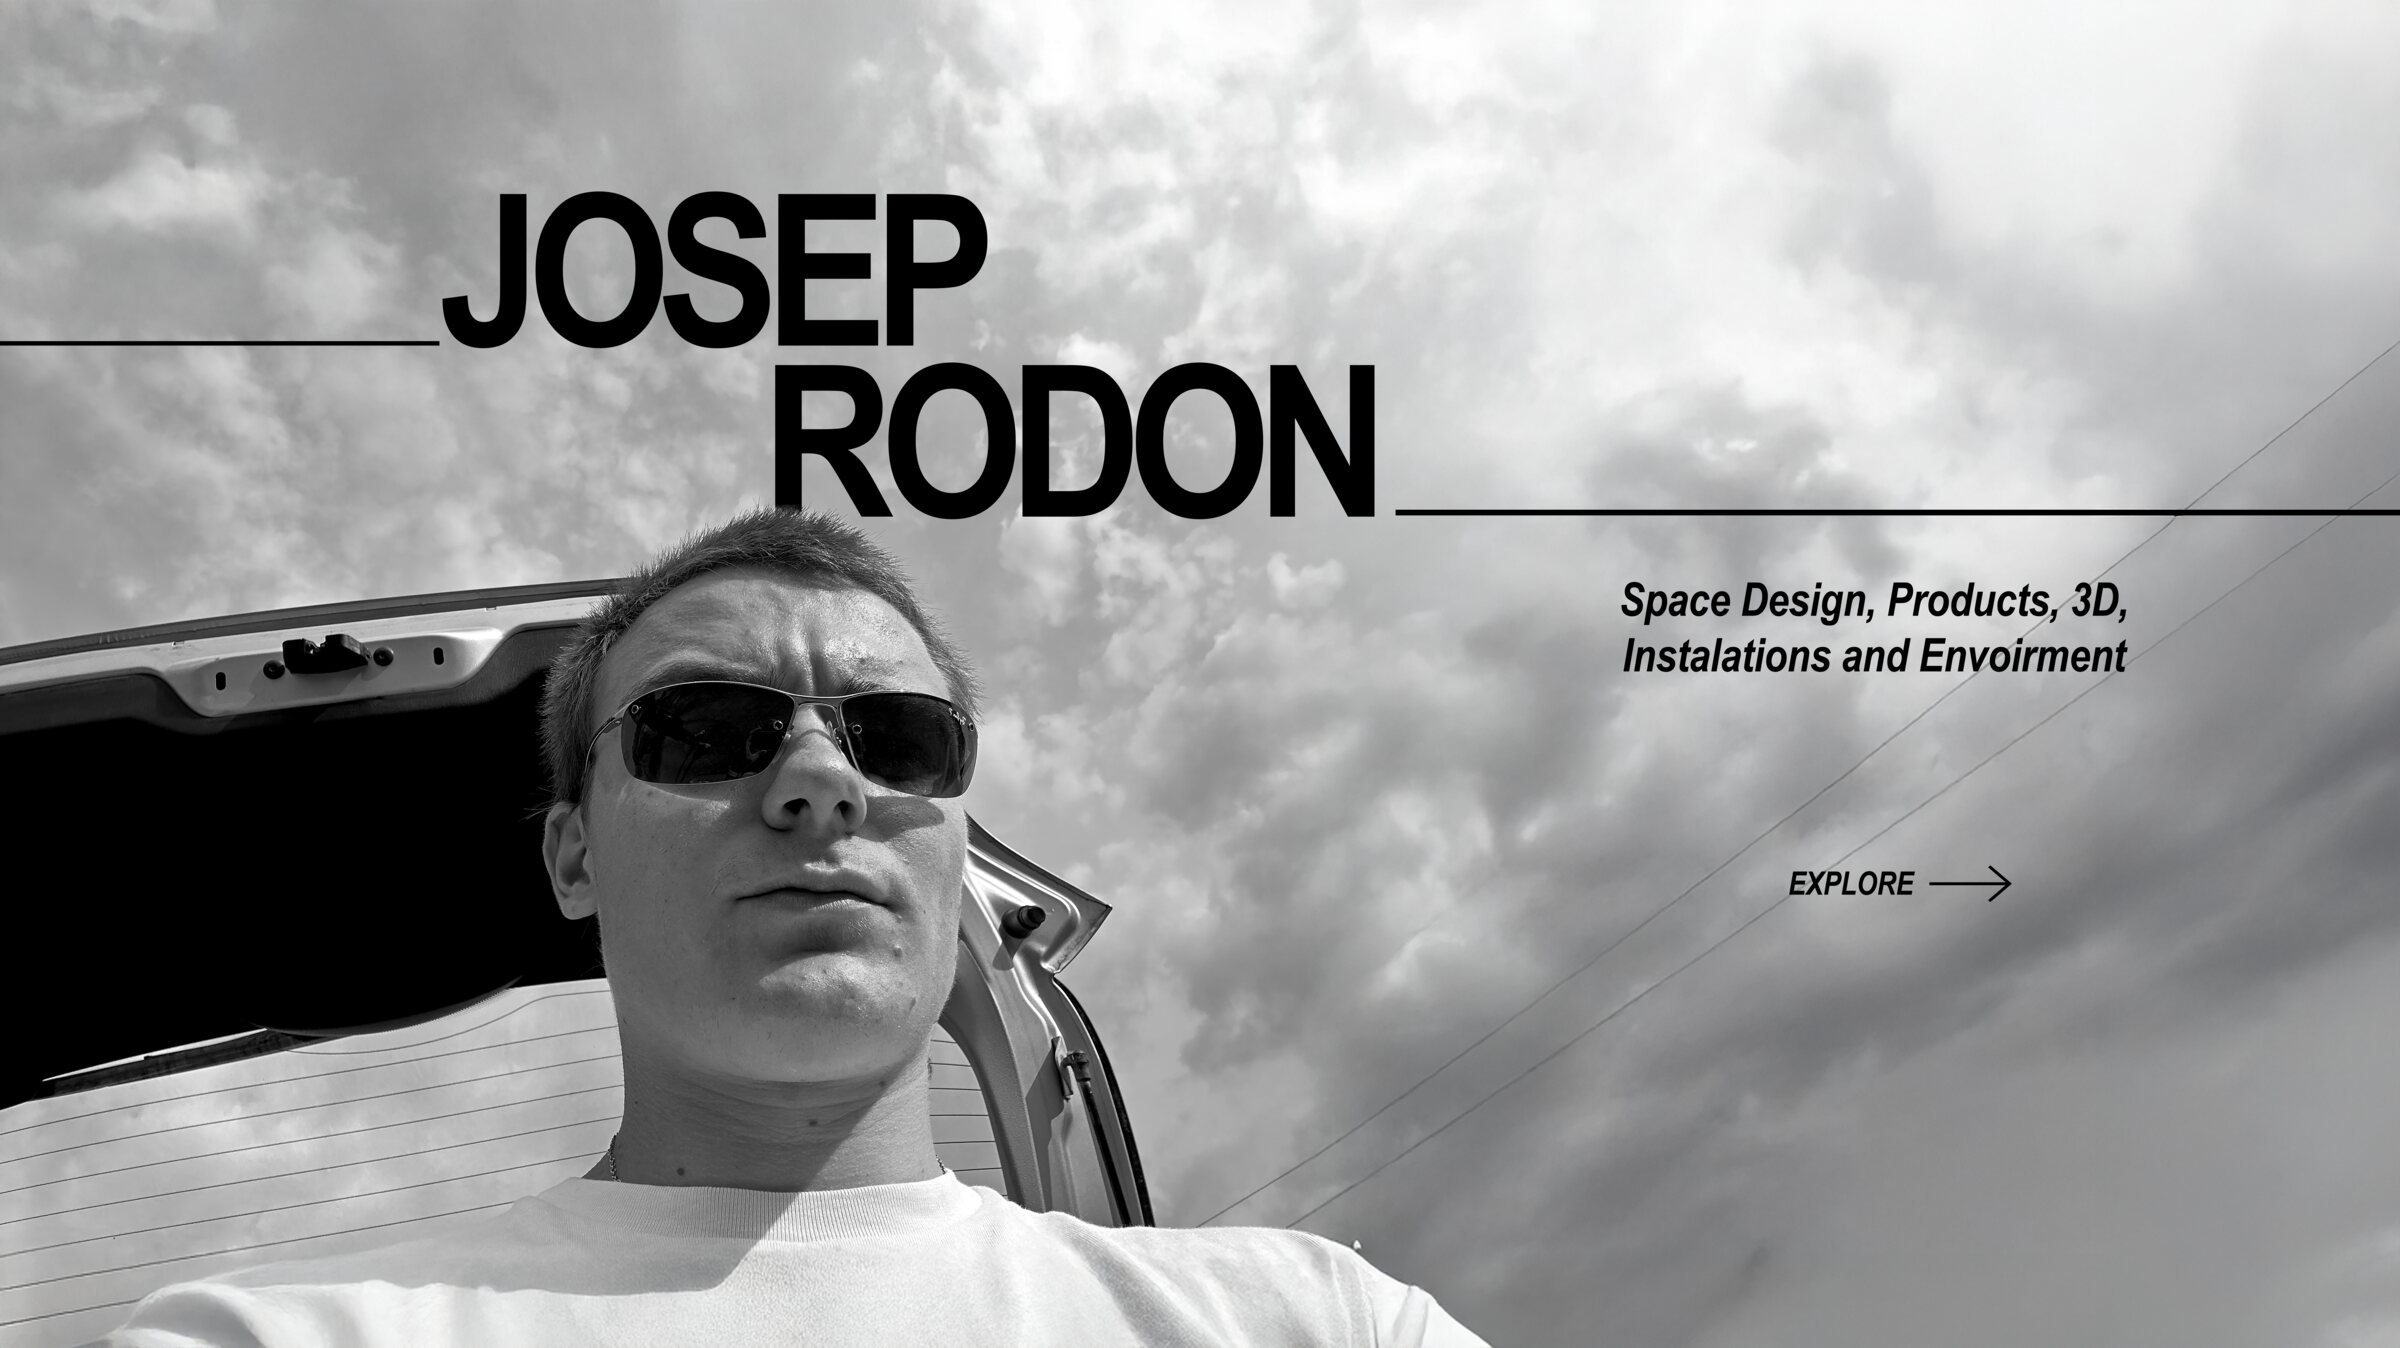
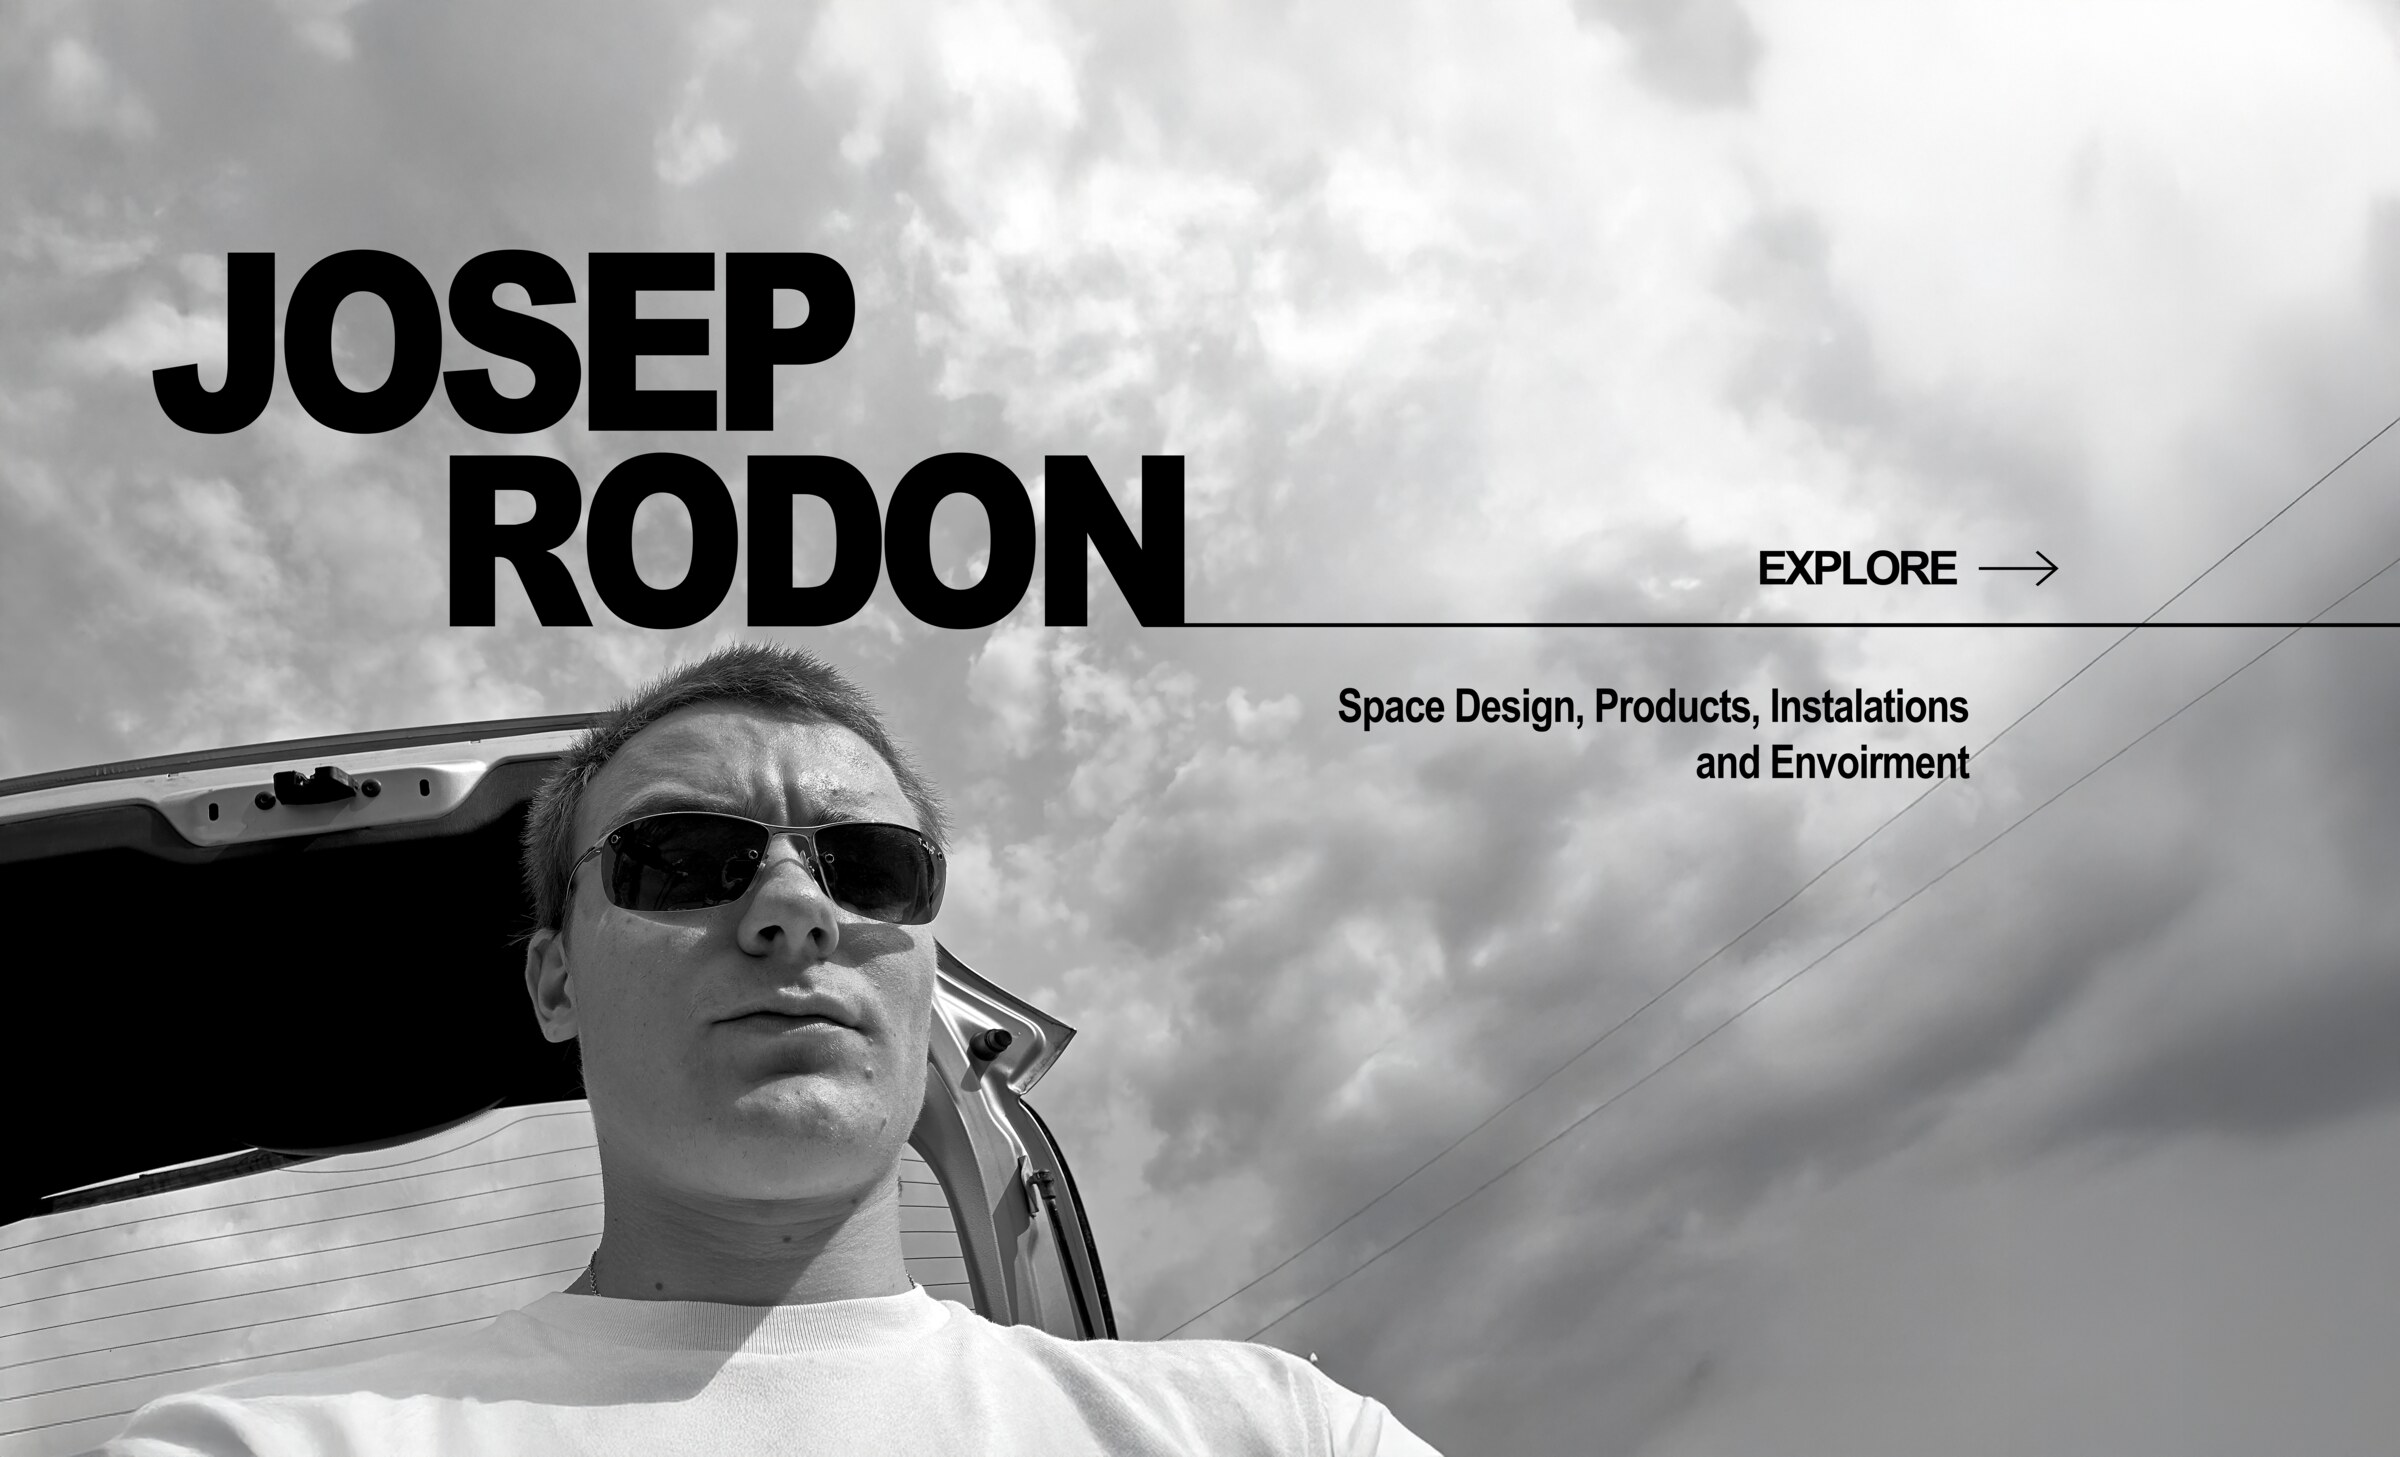
Composicions noves de home: V7 a l'ordinador i V1 al mòbil
Escollits els PNG i no els PDF: tenen 14999 i 9495 px d'ample, molt més
del que cal, i el PDF només afegeix 1 GB i 395 MB de pes sense donar més
resolució.

- assets/home-desktop.jpg  2400×1457, 300 KB
- assets/home-mobile.jpg   1600×2041, 295 KB (4:5, la proporció de la
  franja que ocupa al telèfon)

La composició del mòbil porta el nom i el lema dins de la imatge, com la
de l'ordinador, i es duplicaven amb els de la web. El text es queda al
document, però només per als lectors de pantalla i els cercadors: si
algun dia la imatge torna a ser només fotografia, es recupera traient un
bloc de css/app.css.

El títol de la tira passa a clamp(16px, 4.8vw, 19px): a 19 px fixos,
"CINECLUB INFANTIL" quedava tallat als telèfons més estrets.

Sense publicar.

diff --git a/css/app.css b/css/app.css
@@ -1844,6 +1844,23 @@ body { margin: 0; min-height: 100vh; overflow-x: hidden; }
     color: #0d0d0c;
     pointer-events: none;
   }
+  /* La composició del mòbil ja porta el nom i el lema dins de la imatge,
+     com la de l'ordinador. El text es queda al document —perquè els
+     lectors de pantalla i els cercadors el segueixin trobant— però no es
+     dibuixa. Si algun dia la imatge torna a ser només fotografia, treure
+     aquest bloc ho recupera. */
+  .mobile-hero-type .mobile-hero-name,
+  .mobile-hero-type .mobile-hero-claim {
+    position: absolute;
+    width: 1px;
+    height: 1px;
+    margin: -1px;
+    padding: 0;
+    overflow: hidden;
+    clip-path: inset(50%);
+    white-space: nowrap;
+  }
+
   .mobile-hero-name {
     margin: 0;
     width: 100%;
@@ -2197,7 +2214,9 @@ body { margin: 0; min-height: 100vh; overflow-x: hidden; }
     padding-left: 16px;
     font-family: var(--t-display);
     font-weight: 700;
-    font-size: 19px;
+    /* 19 px als telèfons normals; als més estrets baixa una mica perquè
+       CINECLUB INFANTIL no quedi tallat */
+    font-size: clamp(16px, 4.8vw, 19px);
     line-height: 1;
     text-transform: uppercase;
     letter-spacing: -0.01em;
